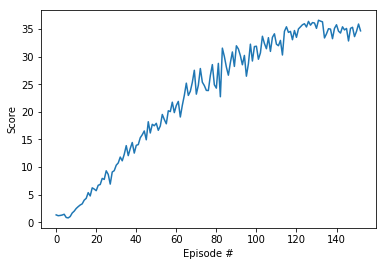
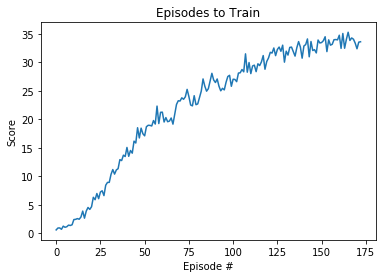
Added new training image

diff --git a/Report.md b/Report.md
@@ -41,7 +41,7 @@ Compared to other policy gradient methods, PPO uses a unique objective function 
 	PPO_EPOCHS          = 10
 	TARGET_REWARD       = 30
 
-This leads to an agent that can achieve an average score of 30 over 100 episodes after 153 episodes
+This leads to an agent that can achieve an average score of 30 over 100 episodes after 173 episodes
 
 ## Results
 
